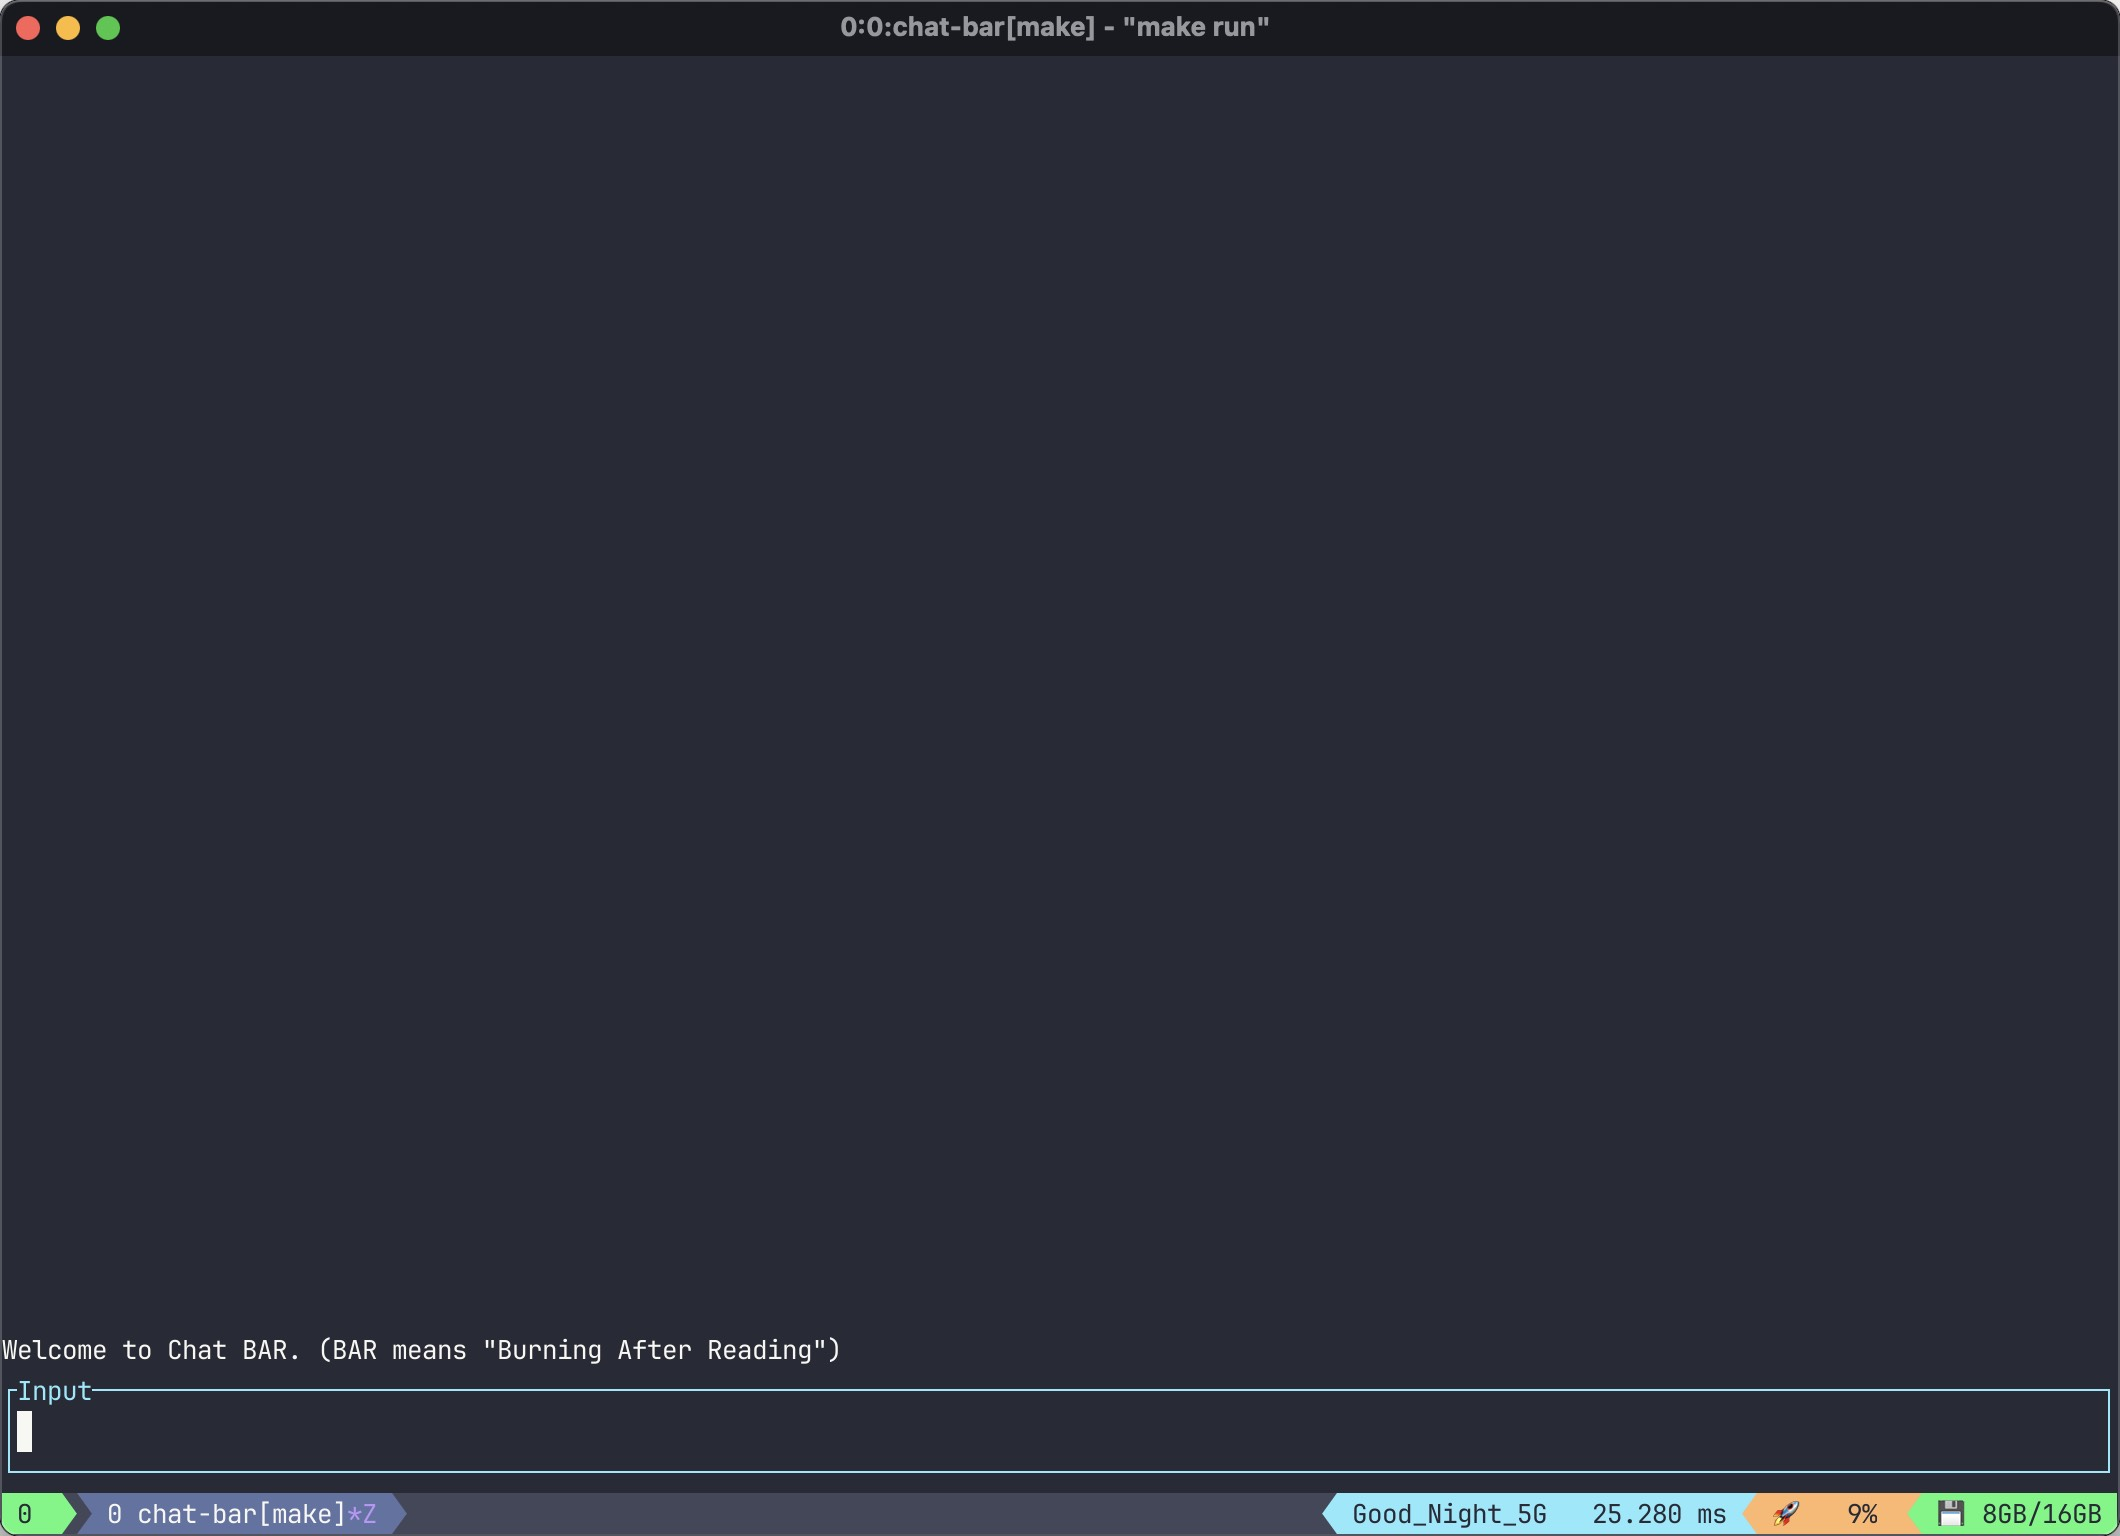
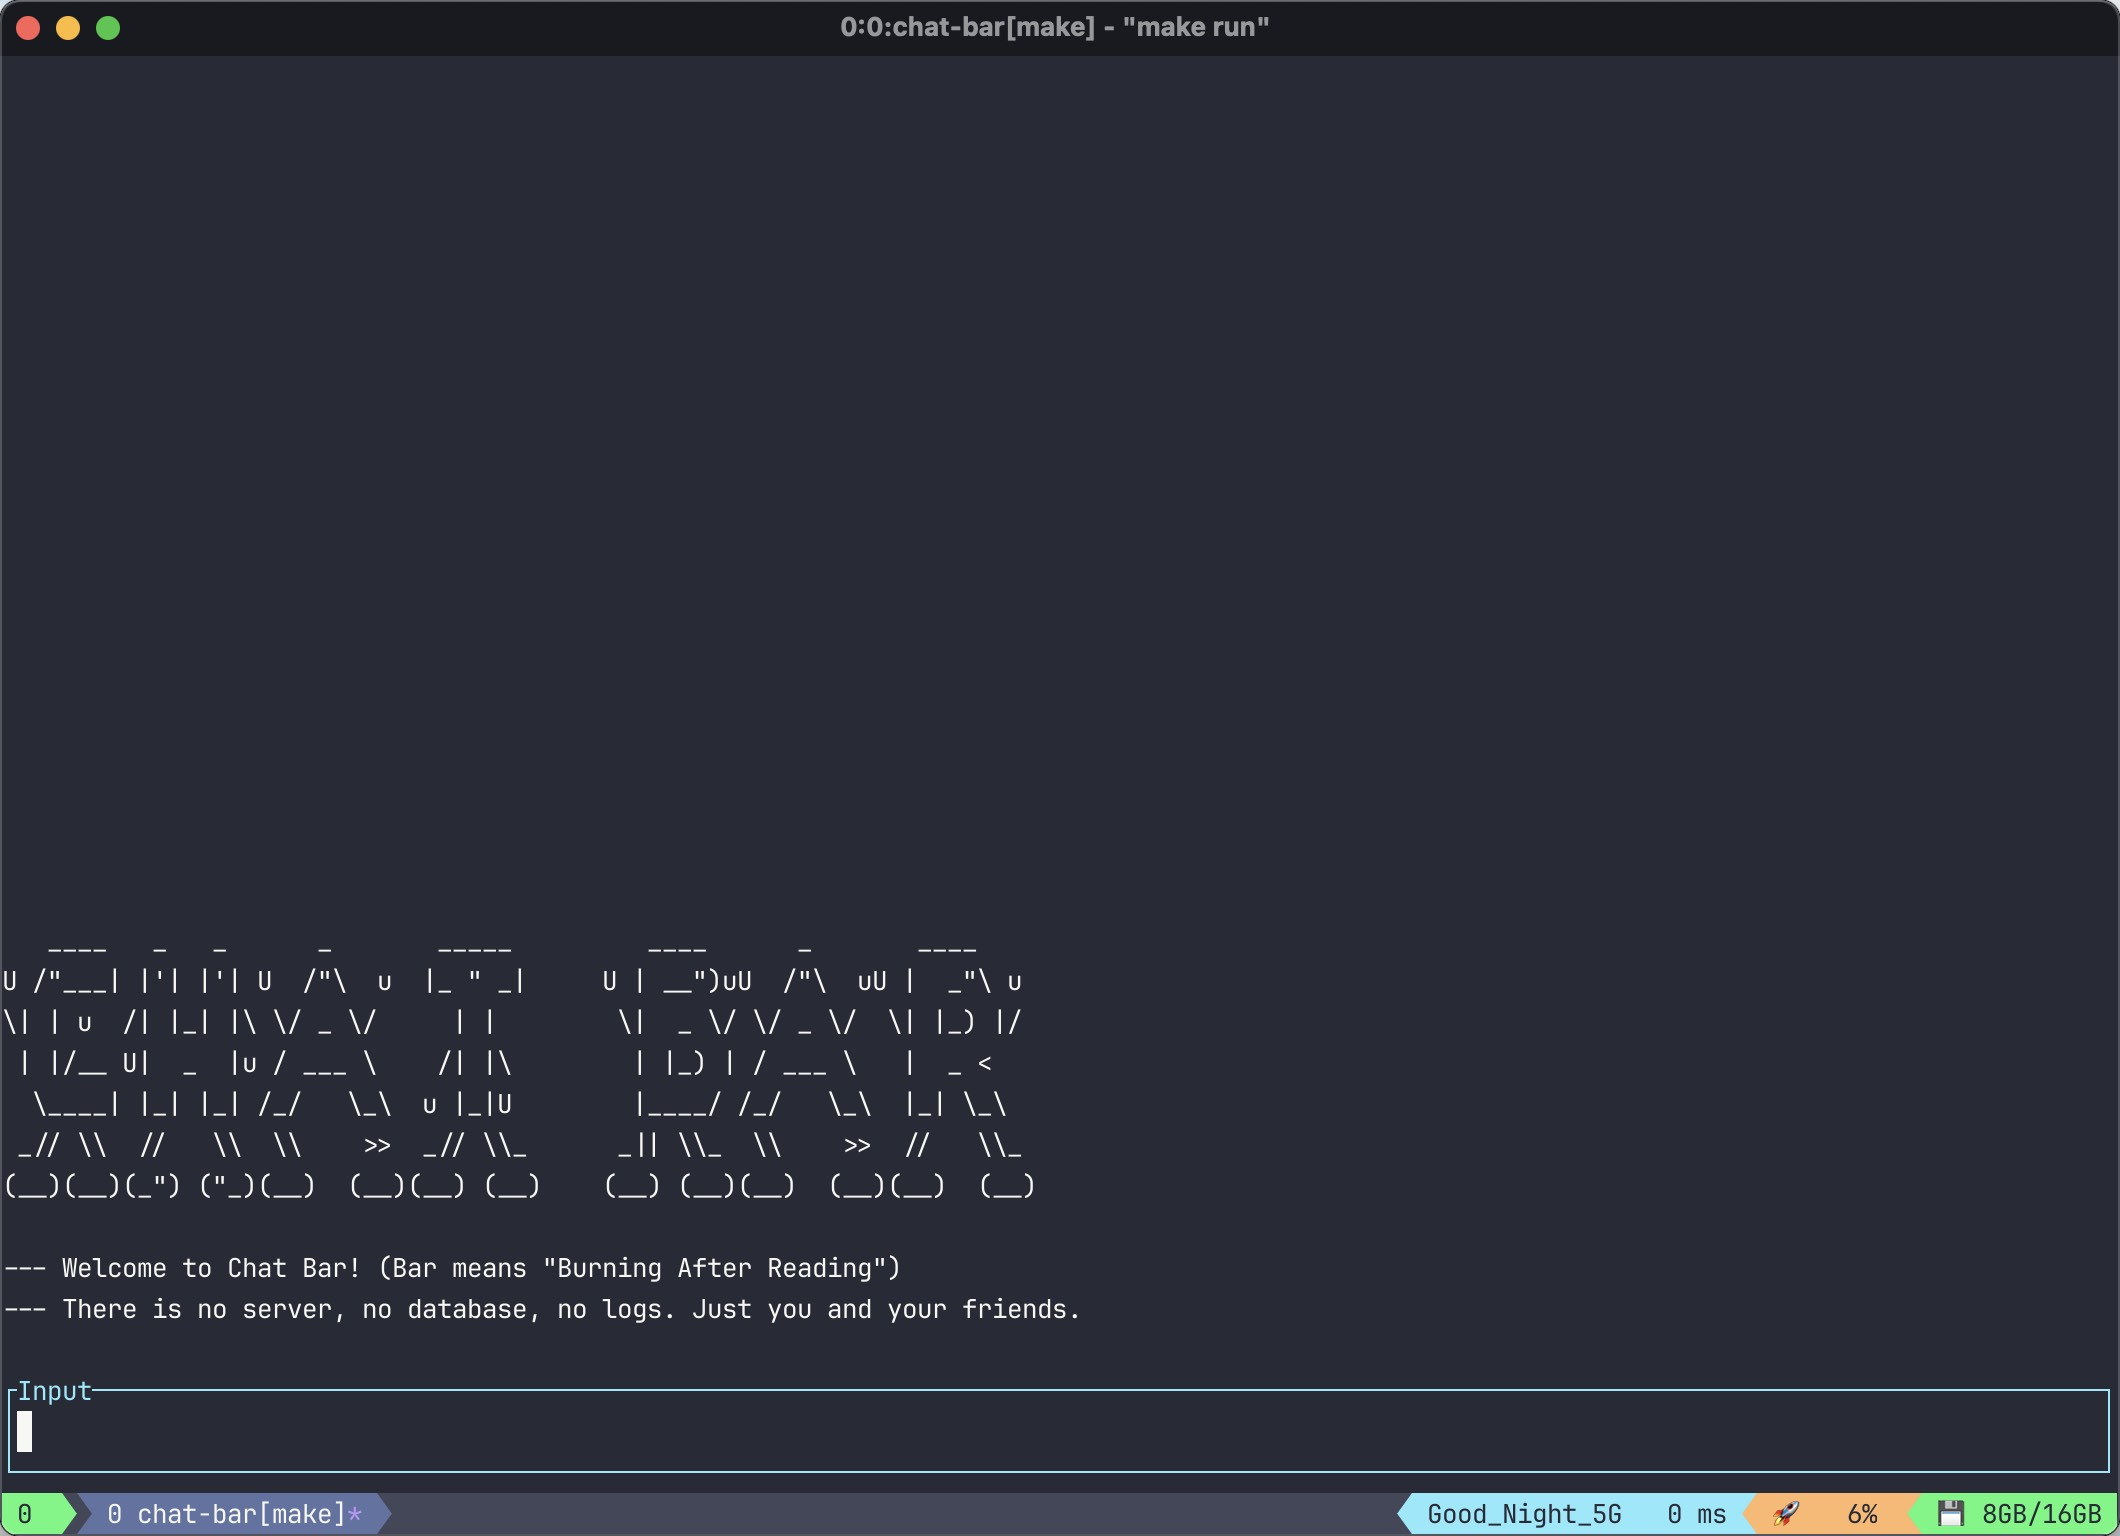
add title

diff --git a/chat-bar/src/main.rs b/chat-bar/src/main.rs
@@ -10,6 +10,8 @@ use p2p::evt_loop;
 mod msg;
 use msg::*;
 
+const TITLE: &str = include_str!("./title.txt");
+
 fn global_rt() -> &'static tokio::runtime::Runtime {
     static RT: OnceCell<tokio::runtime::Runtime> = OnceCell::new();
     RT.get_or_init(|| tokio::runtime::Runtime::new().unwrap())
@@ -22,8 +24,9 @@ fn main() -> Result<(), Box<dyn Error>> {
         .init();
 
     let mut tui_app = ui::App::default();
-    // welcome
-    tui_app.add_message(r#"Welcome to Chat BAR. (BAR means "Burning After Reading")"#.to_string());
+    for line in TITLE.lines() {
+        tui_app.add_message(line.to_string());
+    }
 
     let (peer_tx, mut peer_rx) = tokio::sync::mpsc::channel::<Msg>(100);
     let (input_tx, input_rx) = tokio::sync::mpsc::channel::<Msg>(100);
